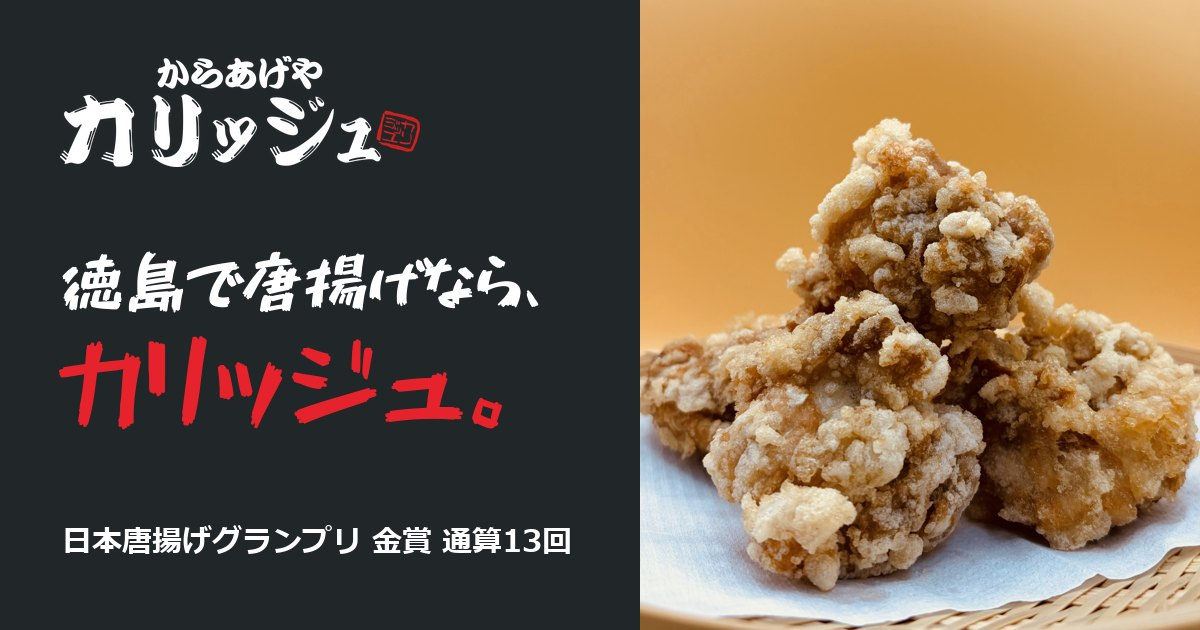
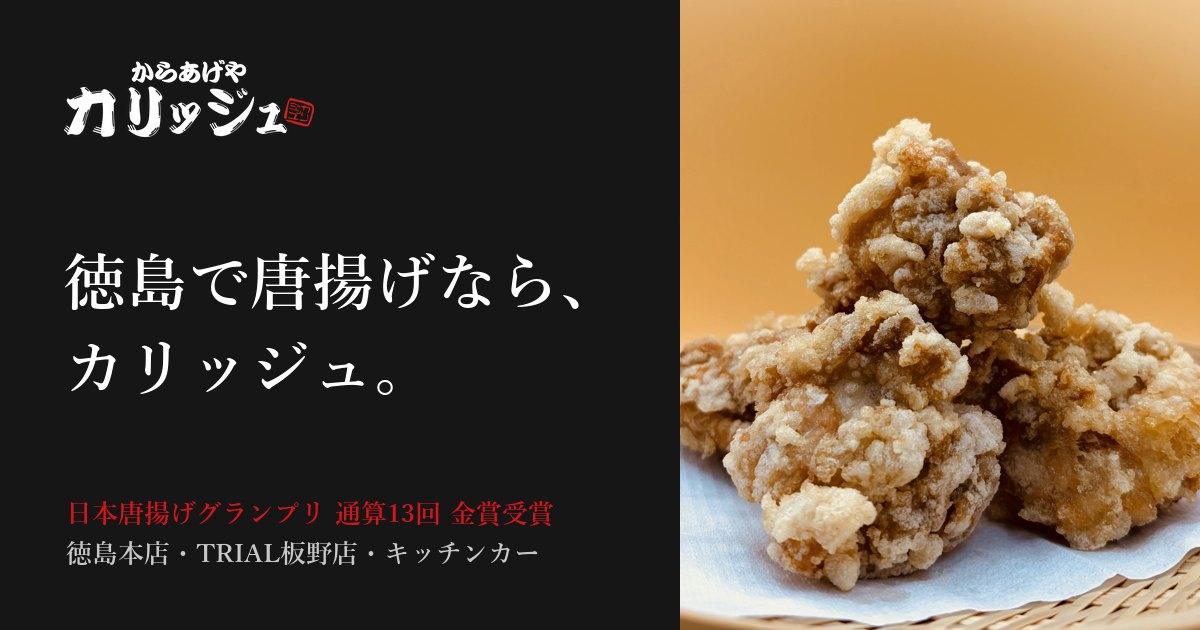
「金賞受賞」「最高金賞受賞」に直す・届いたリンクを入れる・予約をその場で開ける・共有画像を明朝に

diff --git a/index.html b/index.html
@@ -5,13 +5,13 @@
 <meta name="robots" content="noindex, nofollow, noarchive">
 <meta name="viewport" content="width=device-width, initial-scale=1, viewport-fit=cover">
 <title>からあげやカリッジュ徳島｜徳島で唐揚げならカリッジュ（徳島本店・TRIAL板野店）</title>
-<meta name="description" content="日本唐揚げグランプリで通算13回の金賞。香辛料を使わない唐揚げを、徳島本店（徳島市南矢三町）とTRIAL板野店、キッチンカーで。お弁当は800円から。電話・ネット予約・デリバリーで。">
+<meta name="description" content="日本唐揚げグランプリで通算13回の金賞受賞。香辛料を使わない唐揚げを、徳島本店（徳島市南矢三町）とTRIAL板野店、キッチンカーで。お弁当は800円から。電話・ネット予約・デリバリーで。">
 <link rel="canonical" href="https://kariju-tokushima.com/">
 <meta name="theme-color" content="#161616">
 <meta property="og:type" content="website">
 <meta property="og:site_name" content="からあげやカリッジュ徳島">
 <meta property="og:title" content="からあげやカリッジュ徳島｜徳島で唐揚げならカリッジュ（徳島本店・TRIAL板野店）">
-<meta property="og:description" content="日本唐揚げグランプリで通算13回の金賞。香辛料を使わない唐揚げを、徳島本店（徳島市南矢三町）とTRIAL板野店、キッチンカーで。お弁当は800円から。電話・ネット予約・デリバリーで。">
+<meta property="og:description" content="日本唐揚げグランプリで通算13回の金賞受賞。香辛料を使わない唐揚げを、徳島本店（徳島市南矢三町）とTRIAL板野店、キッチンカーで。お弁当は800円から。電話・ネット予約・デリバリーで。">
 <meta property="og:url" content="https://kariju-tokushima.com/">
 <meta property="og:image" content="https://kariju-tokushima.com/assets/img/og.jpg">
 <meta property="og:locale" content="ja_JP">
@@ -21,7 +21,7 @@
 <link rel="preconnect" href="https://fonts.googleapis.com">
 <link rel="preconnect" href="https://fonts.gstatic.com" crossorigin>
 <link rel="stylesheet" href="https://fonts.googleapis.com/css2?family=Cormorant+Garamond:ital,wght@0,500;0,600;0,700;1,500&amp;family=Zen+Kaku+Gothic+New:wght@400;500;700&amp;family=Zen+Old+Mincho:wght@500;700;900&amp;display=swap">
-<link rel="stylesheet" href="assets/css/site.css?v=2b7b72b6">
+<link rel="stylesheet" href="assets/css/site.css?v=4f0cb0ac">
 <script>document.documentElement.classList.add('js');if(/[?&]motion=force/.test(location.search)||(!matchMedia('(prefers-reduced-motion: reduce)').matches&&!/[?&]motion=reduce/.test(location.search)))document.documentElement.classList.add('motion');</script>
 
 </head>
@@ -48,23 +48,23 @@
   <div class="hero__copy">
     <h1 class="catch"><span class="catch__a">徳島で唐揚げなら、</span><span class="catch__b">カリッジュ。</span></h1>
     <div class="hero__foot">
-      <p class="hero__lead">日本唐揚げグランプリ 通算13回 金賞。<br>徳島本店・TRIAL板野店・キッチンカー</p>
+      <p class="hero__lead">日本唐揚げグランプリ 通算13回 金賞受賞。<br>徳島本店・TRIAL板野店・キッチンカー</p>
       <p class="hero__links"><a href="#sheet-reserve" data-sheet="sheet-reserve">ネット予約<svg viewBox="0 0 24 24" aria-hidden="true"><path d="M4 11h13.2l-4.6-4.6L14 5l7 7-7 7-1.4-1.4 4.6-4.6H4z" fill="currentColor"/></svg></a><a href="#sheet-delivery" data-sheet="sheet-delivery">デリバリー<svg viewBox="0 0 24 24" aria-hidden="true"><path d="M4 11h13.2l-4.6-4.6L14 5l7 7-7 7-1.4-1.4 4.6-4.6H4z" fill="currentColor"/></svg></a></p>
     </div>
   </div>
   <p class="hero__scroll" aria-hidden="true">SCROLL</p>
 </section>
 
-<div class="band" aria-hidden="true" data-band><p class="band__track"><span>日本唐揚げグランプリ 通算13回 金賞 ─ 徳島本店 ─ TRIAL板野店 ─ キッチンカー ─ </span><span>日本唐揚げグランプリ 通算13回 金賞 ─ 徳島本店 ─ TRIAL板野店 ─ キッチンカー ─ </span><span>日本唐揚げグランプリ 通算13回 金賞 ─ 徳島本店 ─ TRIAL板野店 ─ キッチンカー ─ </span></p></div>
+<div class="band" aria-hidden="true" data-band><p class="band__track"><span>日本唐揚げグランプリ 通算13回 金賞受賞 ─ 徳島本店 ─ TRIAL板野店 ─ キッチンカー ─ </span><span>日本唐揚げグランプリ 通算13回 金賞受賞 ─ 徳島本店 ─ TRIAL板野店 ─ キッチンカー ─ </span><span>日本唐揚げグランプリ 通算13回 金賞受賞 ─ 徳島本店 ─ TRIAL板野店 ─ キッチンカー ─ </span></p></div>
 
 <section class="award" id="award" aria-labelledby="award-h" data-award>
   <div class="award__stage">
     <div class="award__photo" aria-hidden="true"></div>
     <div class="award__body">
       <p class="award__kicker">日本唐揚げグランプリ</p>
-      <h2 class="award__h" id="award-h"><span class="award__num" aria-hidden="true">13</span><span class="award__unit">回<br>金賞</span><span class="sr">日本唐揚げグランプリで通算13回の金賞</span></h2>
+      <h2 class="award__h" id="award-h"><span class="award__num" aria-hidden="true">13</span><span class="award__unit">回<br>金賞受賞</span><span class="sr">日本唐揚げグランプリで通算13回の金賞受賞</span></h2>
       <ul class="award__list">
-        <li><b class="num">2016</b><span>日本唐揚げグランプリ 最高金賞</span></li>
+        <li><b class="num">2016</b><span>日本唐揚げグランプリ 最高金賞受賞</span></li>
         <li><b class="num">2014</b><span>全国あげあげサミット 優勝</span></li>
       </ul>
     </div>
@@ -221,11 +221,11 @@
       <div class="btns">
   <a class="btn btn--red" href="tel:08040373163"><svg viewBox="0 0 24 24" aria-hidden="true"><path d="M6.6 10.8a15.1 15.1 0 0 0 6.6 6.6l2.2-2.2a1 1 0 0 1 1-.25 11.4 11.4 0 0 0 3.6.57 1 1 0 0 1 1 1V20a1 1 0 0 1-1 1A17 17 0 0 1 3 4a1 1 0 0 1 1-1h3.5a1 1 0 0 1 1 1c0 1.25.2 2.45.57 3.6a1 1 0 0 1-.25 1z" fill="currentColor"/></svg><span>電話する</span><em class="num">080-4037-3163</em></a>
   <a class="btn" href="https://www.google.com/maps/search/?api=1&query=%E3%81%8B%E3%82%89%E3%81%82%E3%81%92%E3%82%84%E3%82%AB%E3%83%AA%E3%83%83%E3%82%B8%E3%83%A5%20%E5%BE%B3%E5%B3%B6%E6%9C%AC%E5%BA%97%20%E5%BE%B3%E5%B3%B6%E7%9C%8C%E5%BE%B3%E5%B3%B6%E5%B8%82%E5%8D%97%E7%9F%A2%E4%B8%89%E7%94%BA3%E4%B8%81%E7%9B%AE4-39%20%E4%B9%85%E7%B1%B3%E3%83%93%E3%83%AB" target="_blank" rel="noopener"><svg viewBox="0 0 24 24" aria-hidden="true"><path d="M12 2a7 7 0 0 0-7 7c0 5.2 7 13 7 13s7-7.8 7-13a7 7 0 0 0-7-7zm0 9.5A2.5 2.5 0 1 1 12 6.5a2.5 2.5 0 0 1 0 5z" fill="currentColor"/></svg><span>地図で見る</span><svg viewBox="0 0 24 24" aria-hidden="true"><path d="M4 11h13.2l-4.6-4.6L14 5l7 7-7 7-1.4-1.4 4.6-4.6H4z" fill="currentColor"/></svg></a>
-  <a class="btn" href="https://select-type.com/rsv/?id=9HUgKIXsMoA&amp;c_id=408956" target="_blank" rel="noopener"><svg viewBox="0 0 24 24" aria-hidden="true"><path d="M7 2v2H5a2 2 0 0 0-2 2v14a2 2 0 0 0 2 2h14a2 2 0 0 0 2-2V6a2 2 0 0 0-2-2h-2V2h-2v2H9V2zm12 8v10H5V10z" fill="currentColor"/></svg><span>ネット予約</span><svg viewBox="0 0 24 24" aria-hidden="true"><path d="M4 11h13.2l-4.6-4.6L14 5l7 7-7 7-1.4-1.4 4.6-4.6H4z" fill="currentColor"/></svg></a>
+  <a class="btn" href="https://select-type.com/rsv/?id=9HUgKIXsMoA&amp;c_id=408956&amp;w_flg=1" target="_blank" rel="noopener"><svg viewBox="0 0 24 24" aria-hidden="true"><path d="M7 2v2H5a2 2 0 0 0-2 2v14a2 2 0 0 0 2 2h14a2 2 0 0 0 2-2V6a2 2 0 0 0-2-2h-2V2h-2v2H9V2zm12 8v10H5V10z" fill="currentColor"/></svg><span>ネット予約</span><svg viewBox="0 0 24 24" aria-hidden="true"><path d="M4 11h13.2l-4.6-4.6L14 5l7 7-7 7-1.4-1.4 4.6-4.6H4z" fill="currentColor"/></svg></a>
   <a class="btn" href="https://www.ubereats.com/store-browse-uuid/e9dc2f33-374e-5b00-8736-05612bd8c3f5?diningMode=DELIVERY" target="_blank" rel="noopener"><svg viewBox="0 0 24 24" aria-hidden="true"><path d="M5 7h9v2H5zm13 1-1.5-4H13v2h2.1l.75 2H11l-2 5H7.9A3.5 3.5 0 1 0 8 15h3.5l2-5h1.4l.6 1.6A3.5 3.5 0 1 0 18.4 11zM4.5 17a1.5 1.5 0 1 1 1.4-2H4.5v1.9zm13 0a1.5 1.5 0 0 1-.6-2.9l.7 1.9 1.8-.7A1.5 1.5 0 0 1 17.5 17z" fill="currentColor"/></svg><span>Uber Eats</span><svg viewBox="0 0 24 24" aria-hidden="true"><path d="M4 11h13.2l-4.6-4.6L14 5l7 7-7 7-1.4-1.4 4.6-4.6H4z" fill="currentColor"/></svg></a>
-  <a class="btn" href="https://customer-web.rocketnow.co.jp/share?storeId=83395&amp;key=4559721a-ccab-43af-9cff-ae464b795741" target="_blank" rel="noopener"><svg viewBox="0 0 24 24" aria-hidden="true"><path d="M5 7h9v2H5zm13 1-1.5-4H13v2h2.1l.75 2H11l-2 5H7.9A3.5 3.5 0 1 0 8 15h3.5l2-5h1.4l.6 1.6A3.5 3.5 0 1 0 18.4 11zM4.5 17a1.5 1.5 0 1 1 1.4-2H4.5v1.9zm13 0a1.5 1.5 0 0 1-.6-2.9l.7 1.9 1.8-.7A1.5 1.5 0 0 1 17.5 17z" fill="currentColor"/></svg><span>ロケットナウ</span><svg viewBox="0 0 24 24" aria-hidden="true"><path d="M4 11h13.2l-4.6-4.6L14 5l7 7-7 7-1.4-1.4 4.6-4.6H4z" fill="currentColor"/></svg></a>
+  <a class="btn" href="https://customer-web.rocketnow.co.jp/share?storeId=83395&amp;dishId&amp;key=9039f127-1588-4c11-a572-8193912e9a6f" target="_blank" rel="noopener"><svg viewBox="0 0 24 24" aria-hidden="true"><path d="M5 7h9v2H5zm13 1-1.5-4H13v2h2.1l.75 2H11l-2 5H7.9A3.5 3.5 0 1 0 8 15h3.5l2-5h1.4l.6 1.6A3.5 3.5 0 1 0 18.4 11zM4.5 17a1.5 1.5 0 1 1 1.4-2H4.5v1.9zm13 0a1.5 1.5 0 0 1-.6-2.9l.7 1.9 1.8-.7A1.5 1.5 0 0 1 17.5 17z" fill="currentColor"/></svg><span>ロケットナウ</span><svg viewBox="0 0 24 24" aria-hidden="true"><path d="M4 11h13.2l-4.6-4.6L14 5l7 7-7 7-1.4-1.4 4.6-4.6H4z" fill="currentColor"/></svg></a>
   <a class="btn" href="https://lin.ee/YAiby27" target="_blank" rel="noopener"><span>LINE</span><svg viewBox="0 0 24 24" aria-hidden="true"><path d="M4 11h13.2l-4.6-4.6L14 5l7 7-7 7-1.4-1.4 4.6-4.6H4z" fill="currentColor"/></svg></a>
-  <!-- 要確認：reserve のURLは先方の画面で切れていた。公開前に香川さんに確認 -->
+  
 </div>
     </div>
   </article>
@@ -247,10 +247,10 @@
   <a class="btn btn--red" href="tel:08051327509"><svg viewBox="0 0 24 24" aria-hidden="true"><path d="M6.6 10.8a15.1 15.1 0 0 0 6.6 6.6l2.2-2.2a1 1 0 0 1 1-.25 11.4 11.4 0 0 0 3.6.57 1 1 0 0 1 1 1V20a1 1 0 0 1-1 1A17 17 0 0 1 3 4a1 1 0 0 1 1-1h3.5a1 1 0 0 1 1 1c0 1.25.2 2.45.57 3.6a1 1 0 0 1-.25 1z" fill="currentColor"/></svg><span>電話する</span><em class="num">080-5132-7509</em></a>
   <a class="btn" href="https://www.google.com/maps/search/?api=1&query=%E3%81%8B%E3%82%89%E3%81%82%E3%81%92%E3%82%84%E3%82%AB%E3%83%AA%E3%83%83%E3%82%B8%E3%83%A5%20TRIAL%E6%9D%BF%E9%87%8E%E5%BA%97%20%E5%BE%B3%E5%B3%B6%E7%9C%8C%E6%9D%BF%E9%87%8E%E9%83%A1%E6%9D%BF%E9%87%8E%E7%94%BA%E5%B7%9D%E7%AB%AF%E5%B3%B6%E4%B8%AD%E9%A0%8811-2" target="_blank" rel="noopener"><svg viewBox="0 0 24 24" aria-hidden="true"><path d="M12 2a7 7 0 0 0-7 7c0 5.2 7 13 7 13s7-7.8 7-13a7 7 0 0 0-7-7zm0 9.5A2.5 2.5 0 1 1 12 6.5a2.5 2.5 0 0 1 0 5z" fill="currentColor"/></svg><span>地図で見る</span><svg viewBox="0 0 24 24" aria-hidden="true"><path d="M4 11h13.2l-4.6-4.6L14 5l7 7-7 7-1.4-1.4 4.6-4.6H4z" fill="currentColor"/></svg></a>
   <a class="btn" href="https://select-type.com/rsv/?id=9HUgKIXsMoA&amp;c_id=438872&amp;w_flg=1" target="_blank" rel="noopener"><svg viewBox="0 0 24 24" aria-hidden="true"><path d="M7 2v2H5a2 2 0 0 0-2 2v14a2 2 0 0 0 2 2h14a2 2 0 0 0 2-2V6a2 2 0 0 0-2-2h-2V2h-2v2H9V2zm12 8v10H5V10z" fill="currentColor"/></svg><span>ネット予約</span><svg viewBox="0 0 24 24" aria-hidden="true"><path d="M4 11h13.2l-4.6-4.6L14 5l7 7-7 7-1.4-1.4 4.6-4.6H4z" fill="currentColor"/></svg></a>
+  <a class="btn" href="https://www.ubereats.com/store-browse-uuid/590f321d-d318-5f3d-92ed-459118553447?diningMode=DELIVERY" target="_blank" rel="noopener"><svg viewBox="0 0 24 24" aria-hidden="true"><path d="M5 7h9v2H5zm13 1-1.5-4H13v2h2.1l.75 2H11l-2 5H7.9A3.5 3.5 0 1 0 8 15h3.5l2-5h1.4l.6 1.6A3.5 3.5 0 1 0 18.4 11zM4.5 17a1.5 1.5 0 1 1 1.4-2H4.5v1.9zm13 0a1.5 1.5 0 0 1-.6-2.9l.7 1.9 1.8-.7A1.5 1.5 0 0 1 17.5 17z" fill="currentColor"/></svg><span>Uber Eats</span><svg viewBox="0 0 24 24" aria-hidden="true"><path d="M4 11h13.2l-4.6-4.6L14 5l7 7-7 7-1.4-1.4 4.6-4.6H4z" fill="currentColor"/></svg></a>
   
-  
-  
-  <!-- 要確認：LINE・Uber Eats・ロケットナウは未確認（先方の画面で切れていた）。分かったらURLを入れるとボタンが出る。営業時間は 10/16 からの新しい時間 -->
+  <a class="btn" href="https://lin.ee/QtfPVd6" target="_blank" rel="noopener"><span>LINE</span><svg viewBox="0 0 24 24" aria-hidden="true"><path d="M4 11h13.2l-4.6-4.6L14 5l7 7-7 7-1.4-1.4 4.6-4.6H4z" fill="currentColor"/></svg></a>
+  <!-- 要確認：ロケットナウは未確認。営業時間は 10/16 からの新しい時間 -->
 </div>
     </div>
   </article>
@@ -297,7 +297,7 @@
   <a class="sheet__scrim" href="#_" aria-label="閉じる" data-close></a>
   <div class="sheet__panel">
     <p class="sheet__title" id="sheet-reserve-t">ネット予約</p>
-    <a class="sheet__row" href="https://select-type.com/rsv/?id=9HUgKIXsMoA&amp;c_id=408956" target="_blank" rel="noopener"><span><b>徳島本店</b><small>ネット予約（受け取りの時間を選べます）</small></span><svg viewBox="0 0 24 24" aria-hidden="true"><path d="M4 11h13.2l-4.6-4.6L14 5l7 7-7 7-1.4-1.4 4.6-4.6H4z" fill="currentColor"/></svg></a>
+    <a class="sheet__row" href="https://select-type.com/rsv/?id=9HUgKIXsMoA&amp;c_id=408956&amp;w_flg=1" target="_blank" rel="noopener"><span><b>徳島本店</b><small>ネット予約（受け取りの時間を選べます）</small></span><svg viewBox="0 0 24 24" aria-hidden="true"><path d="M4 11h13.2l-4.6-4.6L14 5l7 7-7 7-1.4-1.4 4.6-4.6H4z" fill="currentColor"/></svg></a>
     <a class="sheet__row" href="https://select-type.com/rsv/?id=9HUgKIXsMoA&amp;c_id=438872&amp;w_flg=1" target="_blank" rel="noopener"><span><b>TRIAL板野店</b><small>ネット予約（受け取りの時間を選べます）</small></span><svg viewBox="0 0 24 24" aria-hidden="true"><path d="M4 11h13.2l-4.6-4.6L14 5l7 7-7 7-1.4-1.4 4.6-4.6H4z" fill="currentColor"/></svg></a>
     <a class="sheet__close" href="#_" data-close>閉じる</a>
   </div>
@@ -307,7 +307,9 @@
   <div class="sheet__panel">
     <p class="sheet__title" id="sheet-delivery-t">デリバリー</p>
     <a class="sheet__row" href="https://www.ubereats.com/store-browse-uuid/e9dc2f33-374e-5b00-8736-05612bd8c3f5?diningMode=DELIVERY" target="_blank" rel="noopener"><span><b>Uber Eats</b><small>徳島本店からお届け</small></span><svg viewBox="0 0 24 24" aria-hidden="true"><path d="M4 11h13.2l-4.6-4.6L14 5l7 7-7 7-1.4-1.4 4.6-4.6H4z" fill="currentColor"/></svg></a>
-    <a class="sheet__row" href="https://customer-web.rocketnow.co.jp/share?storeId=83395&amp;key=4559721a-ccab-43af-9cff-ae464b795741" target="_blank" rel="noopener"><span><b>ロケットナウ</b><small>徳島本店からお届け</small></span><svg viewBox="0 0 24 24" aria-hidden="true"><path d="M4 11h13.2l-4.6-4.6L14 5l7 7-7 7-1.4-1.4 4.6-4.6H4z" fill="currentColor"/></svg></a>
+    <a class="sheet__row" href="https://customer-web.rocketnow.co.jp/share?storeId=83395&amp;dishId&amp;key=9039f127-1588-4c11-a572-8193912e9a6f" target="_blank" rel="noopener"><span><b>ロケットナウ</b><small>徳島本店からお届け</small></span><svg viewBox="0 0 24 24" aria-hidden="true"><path d="M4 11h13.2l-4.6-4.6L14 5l7 7-7 7-1.4-1.4 4.6-4.6H4z" fill="currentColor"/></svg></a>
+    <a class="sheet__row" href="https://www.ubereats.com/store-browse-uuid/590f321d-d318-5f3d-92ed-459118553447?diningMode=DELIVERY" target="_blank" rel="noopener"><span><b>Uber Eats</b><small>TRIAL板野店からお届け</small></span><svg viewBox="0 0 24 24" aria-hidden="true"><path d="M4 11h13.2l-4.6-4.6L14 5l7 7-7 7-1.4-1.4 4.6-4.6H4z" fill="currentColor"/></svg></a>
+    
     <a class="sheet__close" href="#_" data-close>閉じる</a>
   </div>
 </div>

diff --git a/shops.html b/shops.html
@@ -21,7 +21,7 @@
 <link rel="preconnect" href="https://fonts.googleapis.com">
 <link rel="preconnect" href="https://fonts.gstatic.com" crossorigin>
 <link rel="stylesheet" href="https://fonts.googleapis.com/css2?family=Cormorant+Garamond:ital,wght@0,500;0,600;0,700;1,500&amp;family=Zen+Kaku+Gothic+New:wght@400;500;700&amp;family=Zen+Old+Mincho:wght@500;700;900&amp;display=swap">
-<link rel="stylesheet" href="assets/css/site.css?v=2b7b72b6">
+<link rel="stylesheet" href="assets/css/site.css?v=4f0cb0ac">
 <script>document.documentElement.classList.add('js');if(/[?&]motion=force/.test(location.search)||(!matchMedia('(prefers-reduced-motion: reduce)').matches&&!/[?&]motion=reduce/.test(location.search)))document.documentElement.classList.add('motion');</script>
 
 </head>
@@ -60,12 +60,13 @@
     <div class="btns">
   <a class="btn btn--red" href="tel:08040373163"><svg viewBox="0 0 24 24" aria-hidden="true"><path d="M6.6 10.8a15.1 15.1 0 0 0 6.6 6.6l2.2-2.2a1 1 0 0 1 1-.25 11.4 11.4 0 0 0 3.6.57 1 1 0 0 1 1 1V20a1 1 0 0 1-1 1A17 17 0 0 1 3 4a1 1 0 0 1 1-1h3.5a1 1 0 0 1 1 1c0 1.25.2 2.45.57 3.6a1 1 0 0 1-.25 1z" fill="currentColor"/></svg><span>電話する</span><em class="num">080-4037-3163</em></a>
   <a class="btn" href="https://www.google.com/maps/search/?api=1&query=%E3%81%8B%E3%82%89%E3%81%82%E3%81%92%E3%82%84%E3%82%AB%E3%83%AA%E3%83%83%E3%82%B8%E3%83%A5%20%E5%BE%B3%E5%B3%B6%E6%9C%AC%E5%BA%97%20%E5%BE%B3%E5%B3%B6%E7%9C%8C%E5%BE%B3%E5%B3%B6%E5%B8%82%E5%8D%97%E7%9F%A2%E4%B8%89%E7%94%BA3%E4%B8%81%E7%9B%AE4-39%20%E4%B9%85%E7%B1%B3%E3%83%93%E3%83%AB" target="_blank" rel="noopener"><svg viewBox="0 0 24 24" aria-hidden="true"><path d="M12 2a7 7 0 0 0-7 7c0 5.2 7 13 7 13s7-7.8 7-13a7 7 0 0 0-7-7zm0 9.5A2.5 2.5 0 1 1 12 6.5a2.5 2.5 0 0 1 0 5z" fill="currentColor"/></svg><span>地図で見る</span><svg viewBox="0 0 24 24" aria-hidden="true"><path d="M4 11h13.2l-4.6-4.6L14 5l7 7-7 7-1.4-1.4 4.6-4.6H4z" fill="currentColor"/></svg></a>
-  <a class="btn" href="https://select-type.com/rsv/?id=9HUgKIXsMoA&amp;c_id=408956" target="_blank" rel="noopener"><svg viewBox="0 0 24 24" aria-hidden="true"><path d="M7 2v2H5a2 2 0 0 0-2 2v14a2 2 0 0 0 2 2h14a2 2 0 0 0 2-2V6a2 2 0 0 0-2-2h-2V2h-2v2H9V2zm12 8v10H5V10z" fill="currentColor"/></svg><span>ネット予約</span><svg viewBox="0 0 24 24" aria-hidden="true"><path d="M4 11h13.2l-4.6-4.6L14 5l7 7-7 7-1.4-1.4 4.6-4.6H4z" fill="currentColor"/></svg></a>
+  <a class="btn" href="https://select-type.com/rsv/?id=9HUgKIXsMoA&amp;c_id=408956&amp;w_flg=1" target="_blank" rel="noopener"><svg viewBox="0 0 24 24" aria-hidden="true"><path d="M7 2v2H5a2 2 0 0 0-2 2v14a2 2 0 0 0 2 2h14a2 2 0 0 0 2-2V6a2 2 0 0 0-2-2h-2V2h-2v2H9V2zm12 8v10H5V10z" fill="currentColor"/></svg><span>ネット予約</span><svg viewBox="0 0 24 24" aria-hidden="true"><path d="M4 11h13.2l-4.6-4.6L14 5l7 7-7 7-1.4-1.4 4.6-4.6H4z" fill="currentColor"/></svg></a>
   <a class="btn" href="https://www.ubereats.com/store-browse-uuid/e9dc2f33-374e-5b00-8736-05612bd8c3f5?diningMode=DELIVERY" target="_blank" rel="noopener"><svg viewBox="0 0 24 24" aria-hidden="true"><path d="M5 7h9v2H5zm13 1-1.5-4H13v2h2.1l.75 2H11l-2 5H7.9A3.5 3.5 0 1 0 8 15h3.5l2-5h1.4l.6 1.6A3.5 3.5 0 1 0 18.4 11zM4.5 17a1.5 1.5 0 1 1 1.4-2H4.5v1.9zm13 0a1.5 1.5 0 0 1-.6-2.9l.7 1.9 1.8-.7A1.5 1.5 0 0 1 17.5 17z" fill="currentColor"/></svg><span>Uber Eats</span><svg viewBox="0 0 24 24" aria-hidden="true"><path d="M4 11h13.2l-4.6-4.6L14 5l7 7-7 7-1.4-1.4 4.6-4.6H4z" fill="currentColor"/></svg></a>
-  <a class="btn" href="https://customer-web.rocketnow.co.jp/share?storeId=83395&amp;key=4559721a-ccab-43af-9cff-ae464b795741" target="_blank" rel="noopener"><svg viewBox="0 0 24 24" aria-hidden="true"><path d="M5 7h9v2H5zm13 1-1.5-4H13v2h2.1l.75 2H11l-2 5H7.9A3.5 3.5 0 1 0 8 15h3.5l2-5h1.4l.6 1.6A3.5 3.5 0 1 0 18.4 11zM4.5 17a1.5 1.5 0 1 1 1.4-2H4.5v1.9zm13 0a1.5 1.5 0 0 1-.6-2.9l.7 1.9 1.8-.7A1.5 1.5 0 0 1 17.5 17z" fill="currentColor"/></svg><span>ロケットナウ</span><svg viewBox="0 0 24 24" aria-hidden="true"><path d="M4 11h13.2l-4.6-4.6L14 5l7 7-7 7-1.4-1.4 4.6-4.6H4z" fill="currentColor"/></svg></a>
+  <a class="btn" href="https://customer-web.rocketnow.co.jp/share?storeId=83395&amp;dishId&amp;key=9039f127-1588-4c11-a572-8193912e9a6f" target="_blank" rel="noopener"><svg viewBox="0 0 24 24" aria-hidden="true"><path d="M5 7h9v2H5zm13 1-1.5-4H13v2h2.1l.75 2H11l-2 5H7.9A3.5 3.5 0 1 0 8 15h3.5l2-5h1.4l.6 1.6A3.5 3.5 0 1 0 18.4 11zM4.5 17a1.5 1.5 0 1 1 1.4-2H4.5v1.9zm13 0a1.5 1.5 0 0 1-.6-2.9l.7 1.9 1.8-.7A1.5 1.5 0 0 1 17.5 17z" fill="currentColor"/></svg><span>ロケットナウ</span><svg viewBox="0 0 24 24" aria-hidden="true"><path d="M4 11h13.2l-4.6-4.6L14 5l7 7-7 7-1.4-1.4 4.6-4.6H4z" fill="currentColor"/></svg></a>
   <a class="btn" href="https://lin.ee/YAiby27" target="_blank" rel="noopener"><span>LINE</span><svg viewBox="0 0 24 24" aria-hidden="true"><path d="M4 11h13.2l-4.6-4.6L14 5l7 7-7 7-1.4-1.4 4.6-4.6H4z" fill="currentColor"/></svg></a>
-  <!-- 要確認：reserve のURLは先方の画面で切れていた。公開前に香川さんに確認 -->
+  
 </div>
+    <details class="rsv"><summary>この画面でネット予約する</summary><iframe title="徳島本店のネット予約" src="https://select-type.com/rsv/?id=9HUgKIXsMoA&amp;c_id=408956&amp;w_flg=1" loading="lazy"></iframe></details>
     <div class="sd__map"><iframe title="徳島本店の地図" src="https://www.google.com/maps?q=%E5%BE%B3%E5%B3%B6%E7%9C%8C%E5%BE%B3%E5%B3%B6%E5%B8%82%E5%8D%97%E7%9F%A2%E4%B8%89%E7%94%BA3%E4%B8%81%E7%9B%AE4-39%20%E4%B9%85%E7%B1%B3%E3%83%93%E3%83%AB&output=embed" loading="lazy" referrerpolicy="no-referrer-when-downgrade" allowfullscreen></iframe></div>
   </div>
 </section>
@@ -88,11 +89,12 @@
   <a class="btn btn--red" href="tel:08051327509"><svg viewBox="0 0 24 24" aria-hidden="true"><path d="M6.6 10.8a15.1 15.1 0 0 0 6.6 6.6l2.2-2.2a1 1 0 0 1 1-.25 11.4 11.4 0 0 0 3.6.57 1 1 0 0 1 1 1V20a1 1 0 0 1-1 1A17 17 0 0 1 3 4a1 1 0 0 1 1-1h3.5a1 1 0 0 1 1 1c0 1.25.2 2.45.57 3.6a1 1 0 0 1-.25 1z" fill="currentColor"/></svg><span>電話する</span><em class="num">080-5132-7509</em></a>
   <a class="btn" href="https://www.google.com/maps/search/?api=1&query=%E3%81%8B%E3%82%89%E3%81%82%E3%81%92%E3%82%84%E3%82%AB%E3%83%AA%E3%83%83%E3%82%B8%E3%83%A5%20TRIAL%E6%9D%BF%E9%87%8E%E5%BA%97%20%E5%BE%B3%E5%B3%B6%E7%9C%8C%E6%9D%BF%E9%87%8E%E9%83%A1%E6%9D%BF%E9%87%8E%E7%94%BA%E5%B7%9D%E7%AB%AF%E5%B3%B6%E4%B8%AD%E9%A0%8811-2" target="_blank" rel="noopener"><svg viewBox="0 0 24 24" aria-hidden="true"><path d="M12 2a7 7 0 0 0-7 7c0 5.2 7 13 7 13s7-7.8 7-13a7 7 0 0 0-7-7zm0 9.5A2.5 2.5 0 1 1 12 6.5a2.5 2.5 0 0 1 0 5z" fill="currentColor"/></svg><span>地図で見る</span><svg viewBox="0 0 24 24" aria-hidden="true"><path d="M4 11h13.2l-4.6-4.6L14 5l7 7-7 7-1.4-1.4 4.6-4.6H4z" fill="currentColor"/></svg></a>
   <a class="btn" href="https://select-type.com/rsv/?id=9HUgKIXsMoA&amp;c_id=438872&amp;w_flg=1" target="_blank" rel="noopener"><svg viewBox="0 0 24 24" aria-hidden="true"><path d="M7 2v2H5a2 2 0 0 0-2 2v14a2 2 0 0 0 2 2h14a2 2 0 0 0 2-2V6a2 2 0 0 0-2-2h-2V2h-2v2H9V2zm12 8v10H5V10z" fill="currentColor"/></svg><span>ネット予約</span><svg viewBox="0 0 24 24" aria-hidden="true"><path d="M4 11h13.2l-4.6-4.6L14 5l7 7-7 7-1.4-1.4 4.6-4.6H4z" fill="currentColor"/></svg></a>
+  <a class="btn" href="https://www.ubereats.com/store-browse-uuid/590f321d-d318-5f3d-92ed-459118553447?diningMode=DELIVERY" target="_blank" rel="noopener"><svg viewBox="0 0 24 24" aria-hidden="true"><path d="M5 7h9v2H5zm13 1-1.5-4H13v2h2.1l.75 2H11l-2 5H7.9A3.5 3.5 0 1 0 8 15h3.5l2-5h1.4l.6 1.6A3.5 3.5 0 1 0 18.4 11zM4.5 17a1.5 1.5 0 1 1 1.4-2H4.5v1.9zm13 0a1.5 1.5 0 0 1-.6-2.9l.7 1.9 1.8-.7A1.5 1.5 0 0 1 17.5 17z" fill="currentColor"/></svg><span>Uber Eats</span><svg viewBox="0 0 24 24" aria-hidden="true"><path d="M4 11h13.2l-4.6-4.6L14 5l7 7-7 7-1.4-1.4 4.6-4.6H4z" fill="currentColor"/></svg></a>
   
-  
-  
-  <!-- 要確認：LINE・Uber Eats・ロケットナウは未確認（先方の画面で切れていた）。分かったらURLを入れるとボタンが出る。営業時間は 10/16 からの新しい時間 -->
+  <a class="btn" href="https://lin.ee/QtfPVd6" target="_blank" rel="noopener"><span>LINE</span><svg viewBox="0 0 24 24" aria-hidden="true"><path d="M4 11h13.2l-4.6-4.6L14 5l7 7-7 7-1.4-1.4 4.6-4.6H4z" fill="currentColor"/></svg></a>
+  <!-- 要確認：ロケットナウは未確認。営業時間は 10/16 からの新しい時間 -->
 </div>
+    <details class="rsv"><summary>この画面でネット予約する</summary><iframe title="TRIAL板野店のネット予約" src="https://select-type.com/rsv/?id=9HUgKIXsMoA&amp;c_id=438872&amp;w_flg=1" loading="lazy"></iframe></details>
     <div class="sd__map"><iframe title="TRIAL板野店の地図" src="https://www.google.com/maps?q=%E5%BE%B3%E5%B3%B6%E7%9C%8C%E6%9D%BF%E9%87%8E%E9%83%A1%E6%9D%BF%E9%87%8E%E7%94%BA%E5%B7%9D%E7%AB%AF%E5%B3%B6%E4%B8%AD%E9%A0%8811-2&output=embed" loading="lazy" referrerpolicy="no-referrer-when-downgrade" allowfullscreen></iframe></div>
   </div>
 </section>
@@ -141,7 +143,7 @@
   <a class="sheet__scrim" href="#_" aria-label="閉じる" data-close></a>
   <div class="sheet__panel">
     <p class="sheet__title" id="sheet-reserve-t">ネット予約</p>
-    <a class="sheet__row" href="https://select-type.com/rsv/?id=9HUgKIXsMoA&amp;c_id=408956" target="_blank" rel="noopener"><span><b>徳島本店</b><small>ネット予約（受け取りの時間を選べます）</small></span><svg viewBox="0 0 24 24" aria-hidden="true"><path d="M4 11h13.2l-4.6-4.6L14 5l7 7-7 7-1.4-1.4 4.6-4.6H4z" fill="currentColor"/></svg></a>
+    <a class="sheet__row" href="https://select-type.com/rsv/?id=9HUgKIXsMoA&amp;c_id=408956&amp;w_flg=1" target="_blank" rel="noopener"><span><b>徳島本店</b><small>ネット予約（受け取りの時間を選べます）</small></span><svg viewBox="0 0 24 24" aria-hidden="true"><path d="M4 11h13.2l-4.6-4.6L14 5l7 7-7 7-1.4-1.4 4.6-4.6H4z" fill="currentColor"/></svg></a>
     <a class="sheet__row" href="https://select-type.com/rsv/?id=9HUgKIXsMoA&amp;c_id=438872&amp;w_flg=1" target="_blank" rel="noopener"><span><b>TRIAL板野店</b><small>ネット予約（受け取りの時間を選べます）</small></span><svg viewBox="0 0 24 24" aria-hidden="true"><path d="M4 11h13.2l-4.6-4.6L14 5l7 7-7 7-1.4-1.4 4.6-4.6H4z" fill="currentColor"/></svg></a>
     <a class="sheet__close" href="#_" data-close>閉じる</a>
   </div>
@@ -151,7 +153,9 @@
   <div class="sheet__panel">
     <p class="sheet__title" id="sheet-delivery-t">デリバリー</p>
     <a class="sheet__row" href="https://www.ubereats.com/store-browse-uuid/e9dc2f33-374e-5b00-8736-05612bd8c3f5?diningMode=DELIVERY" target="_blank" rel="noopener"><span><b>Uber Eats</b><small>徳島本店からお届け</small></span><svg viewBox="0 0 24 24" aria-hidden="true"><path d="M4 11h13.2l-4.6-4.6L14 5l7 7-7 7-1.4-1.4 4.6-4.6H4z" fill="currentColor"/></svg></a>
-    <a class="sheet__row" href="https://customer-web.rocketnow.co.jp/share?storeId=83395&amp;key=4559721a-ccab-43af-9cff-ae464b795741" target="_blank" rel="noopener"><span><b>ロケットナウ</b><small>徳島本店からお届け</small></span><svg viewBox="0 0 24 24" aria-hidden="true"><path d="M4 11h13.2l-4.6-4.6L14 5l7 7-7 7-1.4-1.4 4.6-4.6H4z" fill="currentColor"/></svg></a>
+    <a class="sheet__row" href="https://customer-web.rocketnow.co.jp/share?storeId=83395&amp;dishId&amp;key=9039f127-1588-4c11-a572-8193912e9a6f" target="_blank" rel="noopener"><span><b>ロケットナウ</b><small>徳島本店からお届け</small></span><svg viewBox="0 0 24 24" aria-hidden="true"><path d="M4 11h13.2l-4.6-4.6L14 5l7 7-7 7-1.4-1.4 4.6-4.6H4z" fill="currentColor"/></svg></a>
+    <a class="sheet__row" href="https://www.ubereats.com/store-browse-uuid/590f321d-d318-5f3d-92ed-459118553447?diningMode=DELIVERY" target="_blank" rel="noopener"><span><b>Uber Eats</b><small>TRIAL板野店からお届け</small></span><svg viewBox="0 0 24 24" aria-hidden="true"><path d="M4 11h13.2l-4.6-4.6L14 5l7 7-7 7-1.4-1.4 4.6-4.6H4z" fill="currentColor"/></svg></a>
+    
     <a class="sheet__close" href="#_" data-close>閉じる</a>
   </div>
 </div>

diff --git a/menu.html b/menu.html
@@ -21,7 +21,7 @@
 <link rel="preconnect" href="https://fonts.googleapis.com">
 <link rel="preconnect" href="https://fonts.gstatic.com" crossorigin>
 <link rel="stylesheet" href="https://fonts.googleapis.com/css2?family=Cormorant+Garamond:ital,wght@0,500;0,600;0,700;1,500&amp;family=Zen+Kaku+Gothic+New:wght@400;500;700&amp;family=Zen+Old+Mincho:wght@500;700;900&amp;display=swap">
-<link rel="stylesheet" href="assets/css/site.css?v=2b7b72b6">
+<link rel="stylesheet" href="assets/css/site.css?v=4f0cb0ac">
 <script>document.documentElement.classList.add('js');if(/[?&]motion=force/.test(location.search)||(!matchMedia('(prefers-reduced-motion: reduce)').matches&&!/[?&]motion=reduce/.test(location.search)))document.documentElement.classList.add('motion');</script>
 
 </head>
@@ -138,7 +138,7 @@
   <a class="sheet__scrim" href="#_" aria-label="閉じる" data-close></a>
   <div class="sheet__panel">
     <p class="sheet__title" id="sheet-reserve-t">ネット予約</p>
-    <a class="sheet__row" href="https://select-type.com/rsv/?id=9HUgKIXsMoA&amp;c_id=408956" target="_blank" rel="noopener"><span><b>徳島本店</b><small>ネット予約（受け取りの時間を選べます）</small></span><svg viewBox="0 0 24 24" aria-hidden="true"><path d="M4 11h13.2l-4.6-4.6L14 5l7 7-7 7-1.4-1.4 4.6-4.6H4z" fill="currentColor"/></svg></a>
+    <a class="sheet__row" href="https://select-type.com/rsv/?id=9HUgKIXsMoA&amp;c_id=408956&amp;w_flg=1" target="_blank" rel="noopener"><span><b>徳島本店</b><small>ネット予約（受け取りの時間を選べます）</small></span><svg viewBox="0 0 24 24" aria-hidden="true"><path d="M4 11h13.2l-4.6-4.6L14 5l7 7-7 7-1.4-1.4 4.6-4.6H4z" fill="currentColor"/></svg></a>
     <a class="sheet__row" href="https://select-type.com/rsv/?id=9HUgKIXsMoA&amp;c_id=438872&amp;w_flg=1" target="_blank" rel="noopener"><span><b>TRIAL板野店</b><small>ネット予約（受け取りの時間を選べます）</small></span><svg viewBox="0 0 24 24" aria-hidden="true"><path d="M4 11h13.2l-4.6-4.6L14 5l7 7-7 7-1.4-1.4 4.6-4.6H4z" fill="currentColor"/></svg></a>
     <a class="sheet__close" href="#_" data-close>閉じる</a>
   </div>
@@ -148,7 +148,9 @@
   <div class="sheet__panel">
     <p class="sheet__title" id="sheet-delivery-t">デリバリー</p>
     <a class="sheet__row" href="https://www.ubereats.com/store-browse-uuid/e9dc2f33-374e-5b00-8736-05612bd8c3f5?diningMode=DELIVERY" target="_blank" rel="noopener"><span><b>Uber Eats</b><small>徳島本店からお届け</small></span><svg viewBox="0 0 24 24" aria-hidden="true"><path d="M4 11h13.2l-4.6-4.6L14 5l7 7-7 7-1.4-1.4 4.6-4.6H4z" fill="currentColor"/></svg></a>
-    <a class="sheet__row" href="https://customer-web.rocketnow.co.jp/share?storeId=83395&amp;key=4559721a-ccab-43af-9cff-ae464b795741" target="_blank" rel="noopener"><span><b>ロケットナウ</b><small>徳島本店からお届け</small></span><svg viewBox="0 0 24 24" aria-hidden="true"><path d="M4 11h13.2l-4.6-4.6L14 5l7 7-7 7-1.4-1.4 4.6-4.6H4z" fill="currentColor"/></svg></a>
+    <a class="sheet__row" href="https://customer-web.rocketnow.co.jp/share?storeId=83395&amp;dishId&amp;key=9039f127-1588-4c11-a572-8193912e9a6f" target="_blank" rel="noopener"><span><b>ロケットナウ</b><small>徳島本店からお届け</small></span><svg viewBox="0 0 24 24" aria-hidden="true"><path d="M4 11h13.2l-4.6-4.6L14 5l7 7-7 7-1.4-1.4 4.6-4.6H4z" fill="currentColor"/></svg></a>
+    <a class="sheet__row" href="https://www.ubereats.com/store-browse-uuid/590f321d-d318-5f3d-92ed-459118553447?diningMode=DELIVERY" target="_blank" rel="noopener"><span><b>Uber Eats</b><small>TRIAL板野店からお届け</small></span><svg viewBox="0 0 24 24" aria-hidden="true"><path d="M4 11h13.2l-4.6-4.6L14 5l7 7-7 7-1.4-1.4 4.6-4.6H4z" fill="currentColor"/></svg></a>
+    
     <a class="sheet__close" href="#_" data-close>閉じる</a>
   </div>
 </div>

diff --git a/assets/css/site.css b/assets/css/site.css
@@ -354,7 +354,7 @@ body[data-store="itano"] [data-only="honten"] { display: none !important; }
 .award__body { position: relative; width: min(100%, 1120px); }
 .award__kicker { font-family: var(--mincho); font-weight: 700; font-size: clamp(18px, 5vw, 28px); letter-spacing: .16em; }
 .award__h { display: flex; align-items: flex-end; gap: 10px; margin-top: 8px; font-weight: normal; }
-.award__num { display: inline-block; font-family: var(--mincho); font-weight: 900; font-size: min(60vw, 470px); line-height: .9; letter-spacing: -.02em; color: #fff; transform-origin: 40% 60%; }
+.award__num { display: inline-block; font-family: var(--mincho); font-weight: 900; font-size: min(54vw, 440px); line-height: .9; letter-spacing: -.02em; color: #fff; transform-origin: 40% 60%; }
 @supports ((-webkit-background-clip: text) or (background-clip: text)) {
   .award__num {
     color: transparent;
@@ -364,7 +364,7 @@ body[data-store="itano"] [data-only="honten"] { display: none !important; }
   }
   @media (min-width: 900px) { .award__num { background-image: url("../img/karaage-fill-1600.webp"); -webkit-text-stroke-width: 2px; } }
 }
-.award__unit { font-family: var(--mincho); font-weight: 700; font-size: min(8.6vw, 72px); line-height: 1.3; letter-spacing: .1em; padding-bottom: .2em; white-space: nowrap; }
+.award__unit { font-family: var(--mincho); font-weight: 700; font-size: min(6.6vw, 60px); line-height: 1.3; letter-spacing: .1em; padding-bottom: .2em; white-space: nowrap; }
 .award__list { margin-top: 36px; border-top: 1px solid var(--line-w); }
 .award__list li { display: flex; align-items: baseline; gap: 18px; padding: 16px 0; border-bottom: 1px solid var(--line-w); }
 .award__list b { font-size: 28px; line-height: 1; color: var(--red); font-weight: 600; }
@@ -479,3 +479,11 @@ body[data-store="itano"] [data-only="honten"] { display: none !important; }
   .cards { grid-template-columns: repeat(4, 1fr); gap: 40px 24px; }
   .sauce { grid-template-columns: 320px 1fr; gap: 32px; align-items: start; }
 }
+
+/* お店のページ：ネット予約をその場で開く（香川さんから届いた埋め込み） */
+.rsv { margin-top: 12px; border: 1px solid var(--line); }
+.rsv summary { cursor: pointer; padding: 14px 16px; font-size: 14px; font-weight: 500; letter-spacing: .1em; list-style: none; display: flex; justify-content: space-between; }
+.rsv summary::-webkit-details-marker { display: none; }
+.rsv summary::after { content: "＋"; }
+.rsv[open] summary::after { content: "－"; }
+.rsv iframe { display: block; width: 100%; height: 560px; border: 0; background: #fff; }
